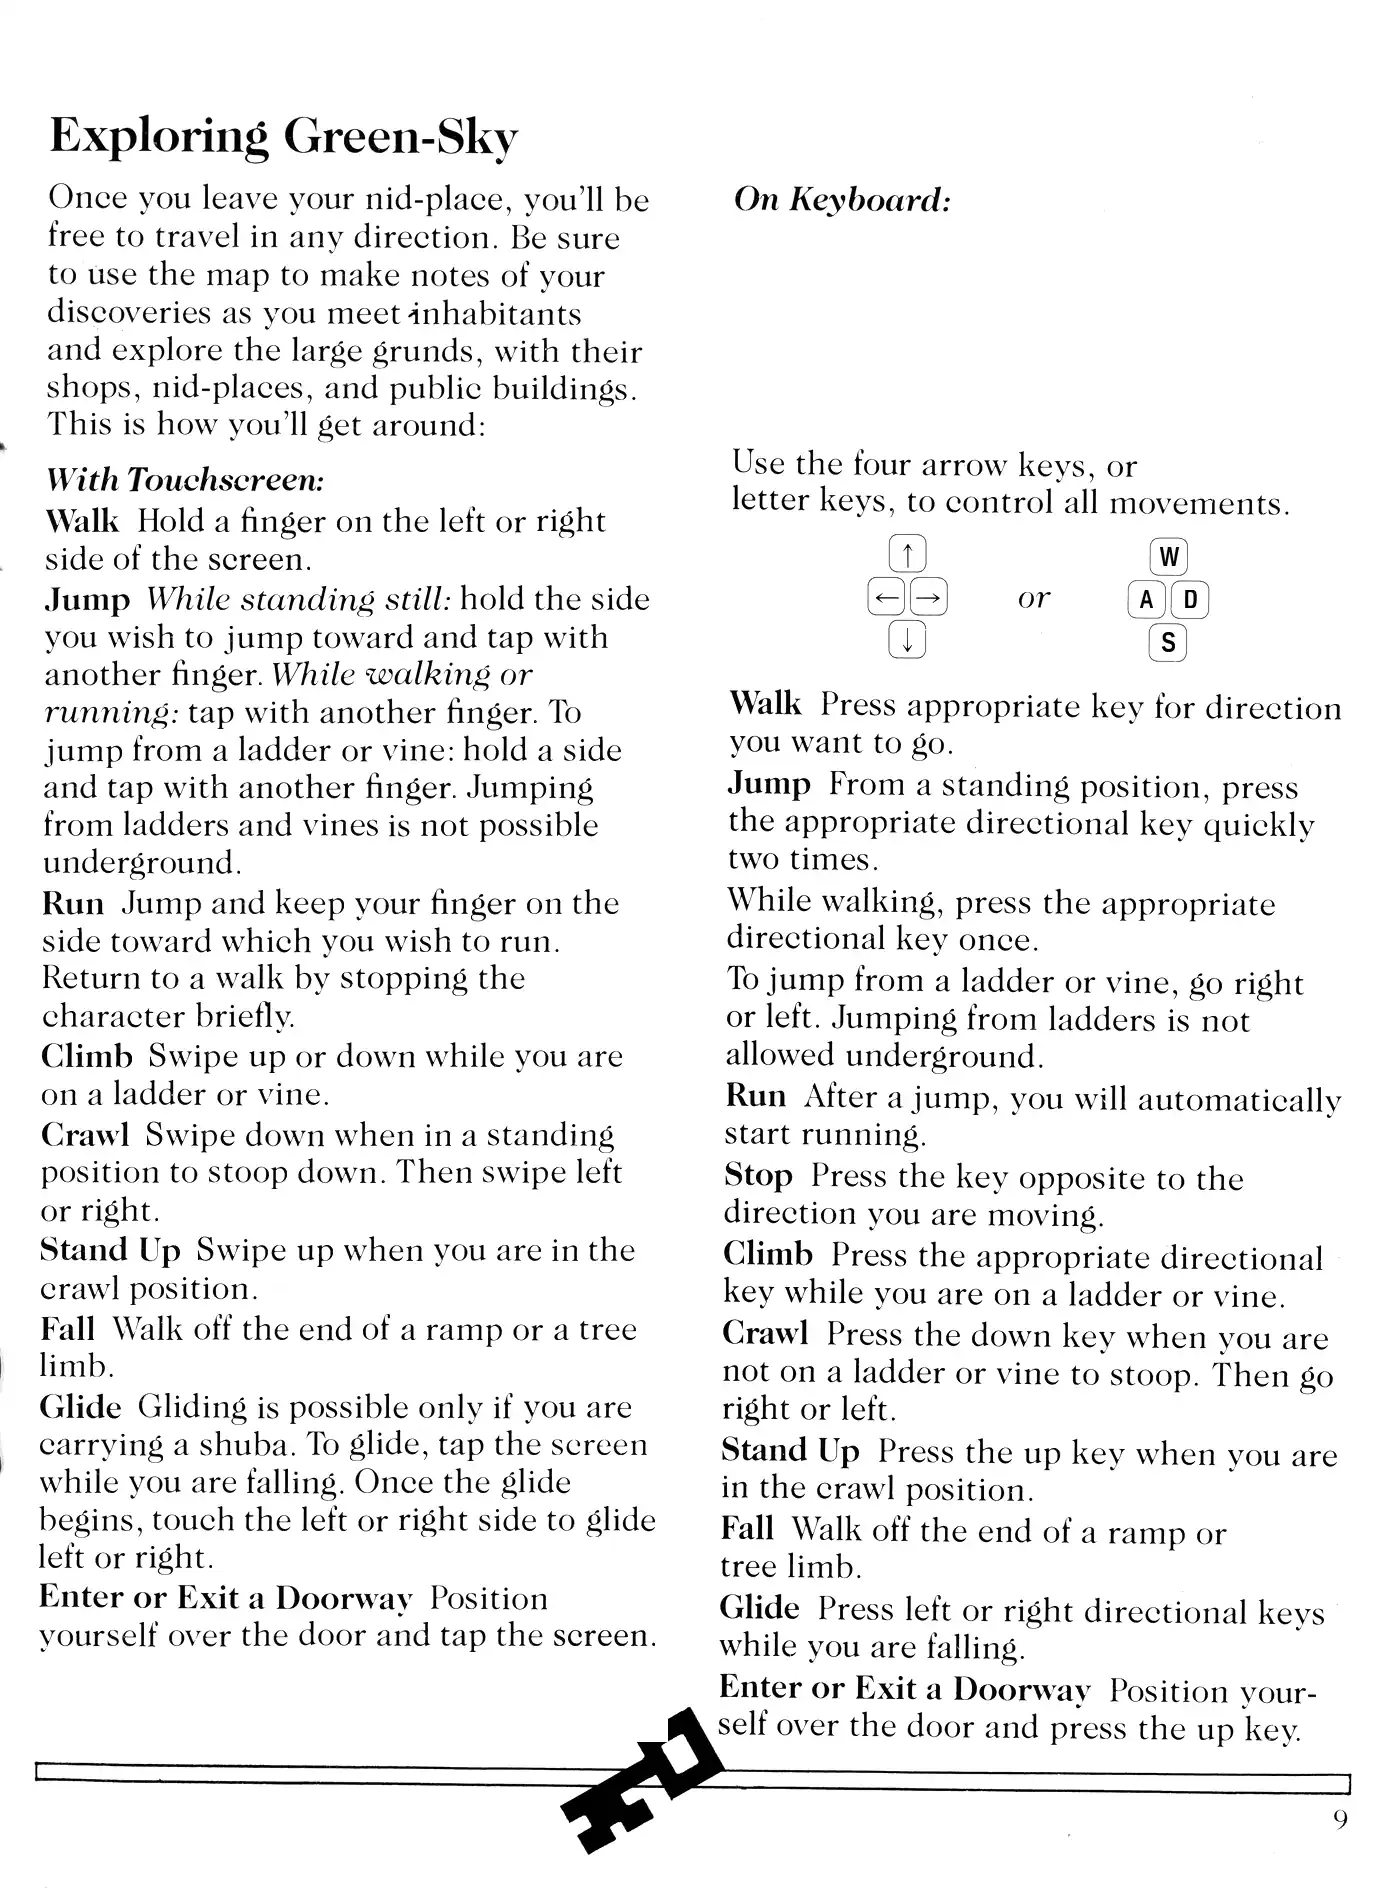
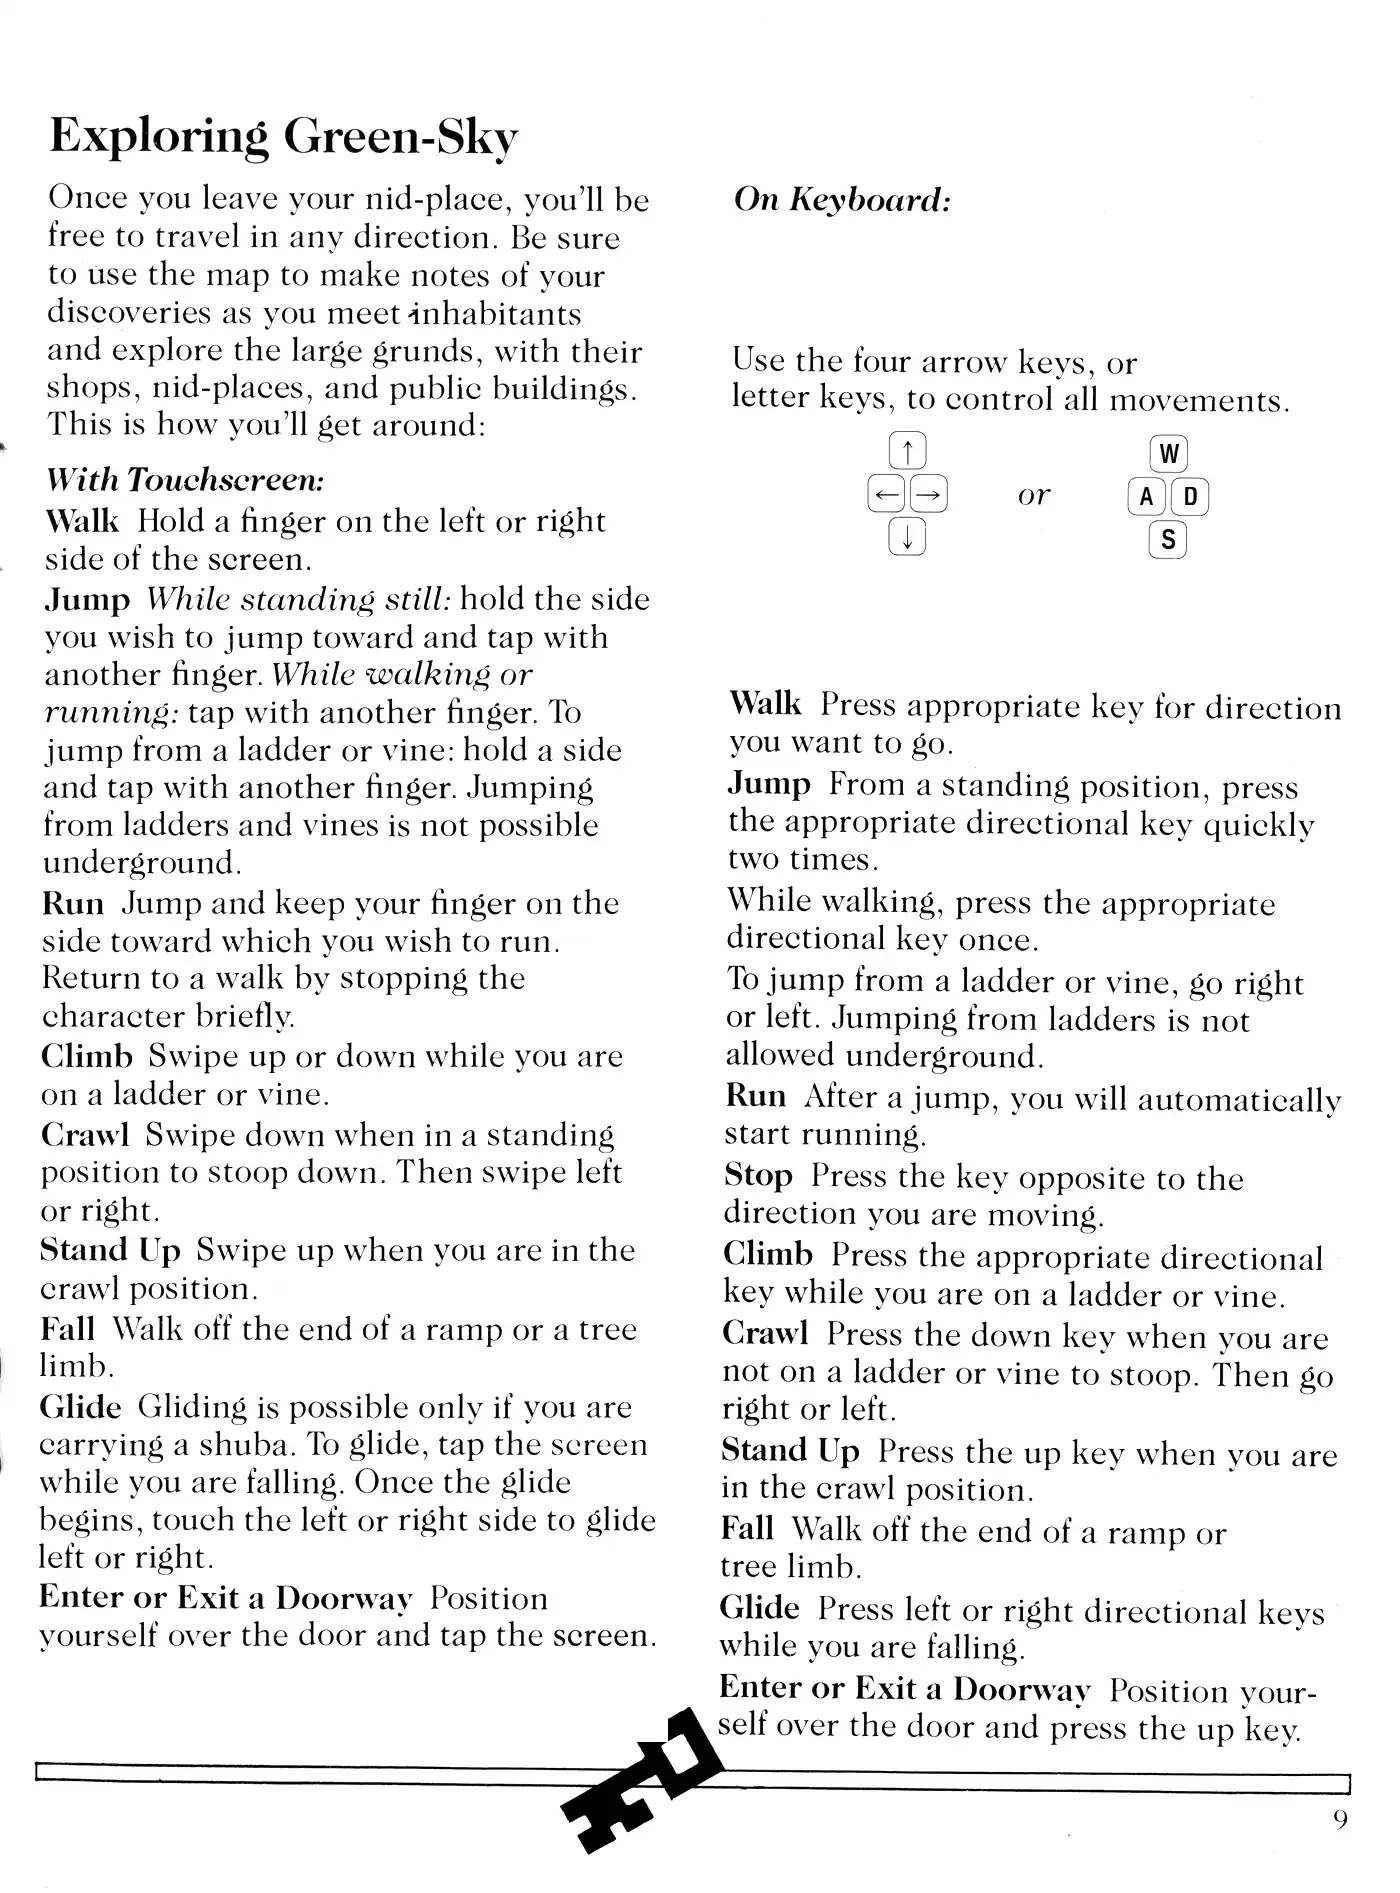
Centre page 9's keyboard instructions between their heading and Walk

Changed region(s): [[0.5221, 0.187, 0.9214, 0.3428]]

diff --git a/tools/manual_page9.py b/tools/manual_page9.py
@@ -66,6 +66,19 @@ def keyboard(page, use_page):
     page.paste(255, keys)
     left = 733 + (1343 - 733 - (1074 - 734)) // 2
     page.paste(group, (left - 4, 528))
+    return centre(page, (715, 220, 1400, 680))
+
+
+def centre(page, area):
+    """Move the ink inside area to sit midway between the ink above and below it."""
+    x0, y0, x1, y1 = area
+    rows = np.nonzero((np.asarray(page)[:, x0:x1] < INK).any(1))[0]
+    inside = rows[(rows >= y0) & (rows < y1)]
+    above, below = rows[rows < y0].max(), rows[rows >= y1].min()
+    top = (above + below - (inside.max() - inside.min())) // 2
+    block = page.crop((x0, int(inside.min()), x1, int(inside.max()) + 1))
+    page.paste(255, area)
+    page.paste(block, (x0, int(top)))
     return page
 
 
